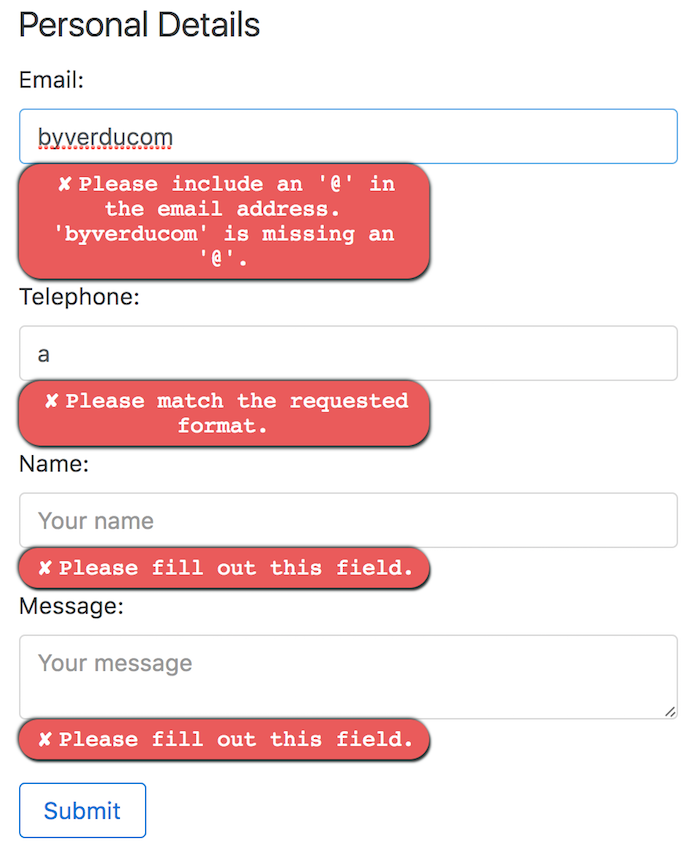
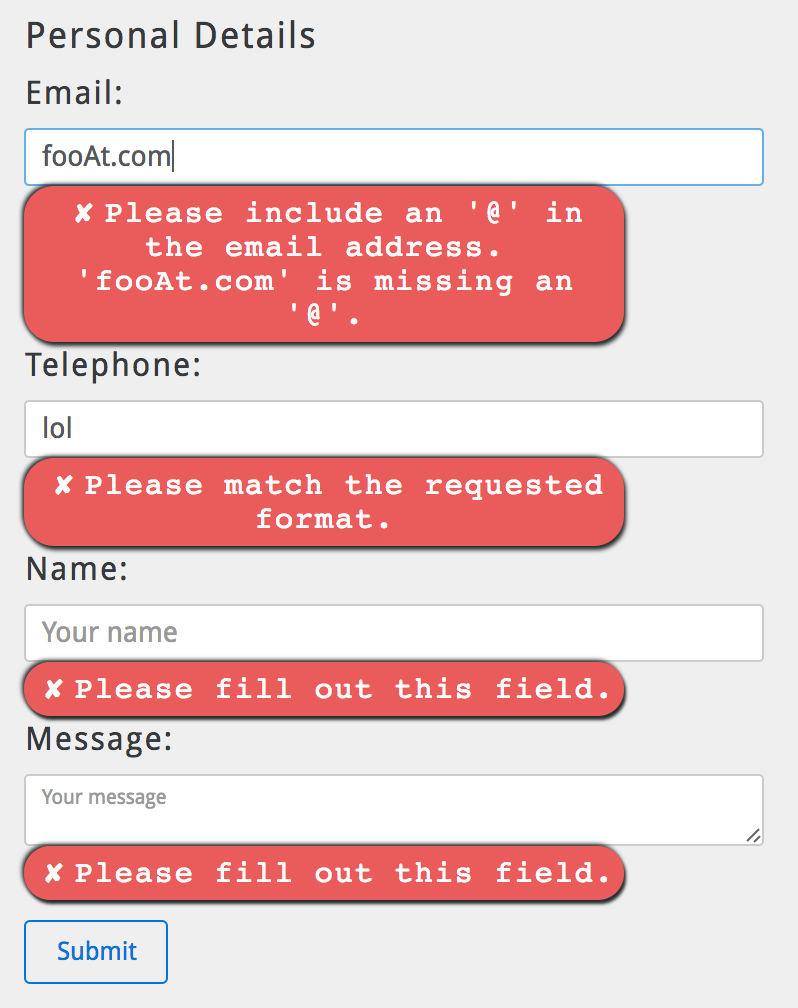
first draft for styles in demo page

diff --git a/docs/index.html b/docs/index.html
@@ -176,106 +176,145 @@
     </div>
     <div class="row">
       <div class="col-md-1"></div>
-      <div class="col-sm-12 col-md-10">
-        <form id="optionsForm">
-          <fieldset class="form-group">
-            <legend>Try settings</legend>
-            <label for="fadeOutError">fadeOutError</label>
-            <input class="form-control" type="checkbox" name="fadeOutError" id="fadeOutError">
-            <div id="timeFadeOut">
-              <label for="time">time fadeOutError</label>
-              <input class="form-control" type="text" name="time" id="time">
-            </div>
-            <label for="elementError">elementError</label>
-            <input class="form-control" type="text" name="elementError" id="elementError">
-            <label for="positionMethod">positionMethod</label>
-            <input class="form-control" type="text" name="positionMethod" id="positionMethod">
-            <label for="focusErrorOnClick">focusErrorOnClick</label>
-            <input class="form-control" type="checkbox" name="focusErrorOnClick" id="focusErrorOnClick">
-          </fieldset>
-          <input class="btn btn-outline-primary" type="submit" value="Submit">
-        </form>
+      <div class="col-sm-12 col-md-5">
+        <div class="prettyErrorDemo__settings">
+          <form id="optionsForm" class="form-group">
+            <fieldset class="form-group">
+              <legend>Settings for demo</legend>
+              <div class="form-check">
+                <label for="fadeOutError" class="form-check-label">
+                  <input class="form-check-input" type="checkbox" name="fadeOutError" id="fadeOutError">
+                  fadeOutError
+                </label>
+              </div>
+              <div class="form-group" id="timeFadeOut">
+                <label for="time">Options fadeOutError</label>
+                <input class="form-control" type="text" name="time" id="time" placeholder="String, Number or an Objet with options...">
+              </div>
+              <div class="form-group">
+                <label for="elementError">elementError</label>
+                <input class="form-control" type="text" name="elementError" id="elementError" placeholder="HTML element...">
+              </div>
+              <div class="form-group">
+                <label for="positionMethod">positionMethod</label>
+                <input class="form-control" type="text" name="positionMethod" id="positionMethod" placeholder="before or after...">
+              </div>
+              <div class="form-check">
+                <label for="focusErrorOnClick" class="form-check-label">
+                  <input class="form-check-input" type="checkbox" name="focusErrorOnClick" id="focusErrorOnClick">
+                  Disable focusErrorOnClick
+                </label>
+              </div>
+            </fieldset>
+            <input class="btn btn-outline-success btn-block" type="submit" value="Submit">
+          </form>
+        </div>
+      </div>
+    </div>
+    <div class="row">
+      <div class="col-md-1"></div>
+      <div class="col-md-10">
+        <hr>
       </div>
     </div>
 
     <div class="row">
-      <div class="col-md-1"></div>
-      <div class="col-sm-12 col-md-5">
-        <form class="prettyErrorForm">
-          <fieldset class="form-group">
-            <legend>Personal Details</legend>
+      <div class="prettyErrorDemo__settings">
+        <div class="col-md-1"></div>
+        <div class="col-sm-12 col-md-5">
+          <form class="prettyErrorForm">
+            <fieldset class="form-group">
+              <legend>Personal Details</legend>
 
-            <label for="email">Email:</label>
-            <input class="form-control" required type="email" id="email" name="email" placeholder="Your email" title="aa@aa.aa">
+              <label for="email">Email:</label>
+              <input class="form-control" required type="email" id="email" name="email" placeholder="Your email" title="aa@aa.aa">
 
-            <label>Telephone:</label>
-            <input class="form-control" required type="tel" pattern='\d+' name="telephone" placeholder="Your telephone" title="Only digits">
+              <label>Telephone:</label>
+              <input class="form-control" required type="tel" pattern='\d+' name="telephone" placeholder="Your telephone" title="Only digits">
 
-            <label for="name">Name:</label>
-            <input class="form-control" required type="text" id="name" name="name" placeholder="Your name">
+              <label for="name">Name:</label>
+              <input class="form-control" required type="text" id="name" name="name" placeholder="Your name">
 
-            <label for="message">Message:</label>
-            <textarea required class="form-control" id="message" name="message" placeholder="Your message"></textarea>
-          </fieldset>
-          <!-- /details -->
-          <button type="submit" class="btn btn-outline-primary">Submit</button>
-        </form>
+              <label for="message">Message:</label>
+              <textarea required class="form-control" id="message" name="message" placeholder="Your message"></textarea>
+            </fieldset>
+            <!-- /details -->
+            <button type="submit" class="btn-lg btn btn-outline-primary">Submit</button>
+          </form>
+        </div>
+        <div class="col-md-1"></div>
+        <div class="col-sm-12 col-md-4">
+          <form class="prettyErrorForm">
+            <fieldset>
+              <legend>Statistic Details</legend>
+
+              <!-- first value must be empty in order to get an error -->
+              <div class="form-group">
+                <label for="gender">Select Gender</label>
+                <select class="form-control" id="gender" required title="Select a Gender">
+                  <option value="">Select a option</option>
+                  <option value="male">Male</option>
+                  <option value="female">Female</option>
+                </select>
+              </div>
+
+              <div class="form-check">
+                <label class="form-check-label">
+                  <input type="checkbox" id="terms" required title="Please agree with the conditions" class="form-check-input">
+                  Terms and conditions
+                </label>
+              </div>
+
+              <!-- input radio must have the same name attribute in order to be able to choose between them and get the error -->
+              <legend>Mac or PC?</legend>
+              <div class="form-check">
+                <label class="form-check-label">
+                  <input id="mac" type="radio" name="group1" value="mac" required class="form-check-input">
+                  Mac
+                </label>
+              </div>
+              <div class="form-check">
+                <label class="form-check-label">
+                  <input id="pc" type="radio" name="group1" value="pc" required class="form-check-input">
+                  PC
+                </label>
+              </div>
+
+              <!-- Multiple required checkboxes give a problem when validates. Added extra javascript in order to use it, check jsVersion.js file -->
+              <legend>Best topping ever</legend>
+
+              <div class="form-check">
+                <label class="form-check-label">
+                  <input required id="pineapple" type="checkbox" name="topping" value="pineapple" class="form-check-input multiCheckbox">
+                  Pineapple
+                </label>
+                <label class="form-check-label">
+                  <input required id="ham" type="checkbox" name="topping" value="ham" class="form-check-input multiCheckbox">
+                  Ham
+                </label>
+                <label class="form-check-label">
+                  <input required id="olives" type="checkbox" name="olives" value="olives" class="form-check-input multiCheckbox">
+                  Olives
+                </label>
+              </div>
+            </fieldset>
+            <!-- /statistics -->
+            <button type="submit" class="btn-lg btn btn-outline-primary">Submit</button>
+          </form>
+        </div>
+        <div class="col-md-1"></div>
       </div>
-      <div class="col-md-1"></div>
-      <div class="col-sm-12 col-md-4">
-        <form class="prettyErrorForm">
-          <fieldset>
-            <legend>Statistic Details</legend>
-
-            <label for="gender">Select Gender</label>
-            <!-- first value must be empty in order to get an error -->
-            <select id="gender" required title="Select a Gender">
-                <option value="">Select a option</option>
-                <option value="male">Male</option>
-                <option value="female">Female</option>
-              </select>
-
-            <p>Mac or PC?</p>
-
-            <label for="mac">Mac:</label>
-            <!-- input radio must have the same name attribute in order to be able to choose between them and get the error -->
-            <input id="mac" type="radio" name="group1" value="mac" required class="form-control">
-
-            <label for="pc">PC:</label>
-            <input id="pc" type="radio" name="group1" value="pc" required class="form-control">
-
-
-            <label for="terms">Terms and conditions</label>
-            <input type="checkbox" id="terms" required title="Please agree with the conditions" class="form-control">
-
-            <p>Best topping ever</p>
-
-            <!-- Multiple required checkboxes give a problem when validates. Added extra javascript in order to use it, check jsVersion.js file -->
-
-            <label for="pineapple">Pineapple:</label>
-            <input required id="pineapple" type="checkbox" name="topping" value="pineapple" class="form-control multiCheckbox">
-
-            <!-- Added a class="options" for all same group of checkboxes -->
-            <label for="ham">Ham:</label>
-            <input required id="ham" type="checkbox" name="topping" value="ham" class="form-control multiCheckbox">
-
-            <label for="olives">Olives:</label>
-            <input required id="olives" type="checkbox" name="olives" value="olives" class="form-control multiCheckbox">
-
-          </fieldset>
-          <!-- /statistics -->
-          <button type="submit" class="btn btn-outline-primary">Submit</button>
-        </form>
       </div>
-      <div class="col-md-1"></div>
-    </div>
     <!-- Second form example, other input types -->
   </div>
-  <div class="container-fluid">
+  <div class="container">
     <div class="row">
-      <footer class="fixed-bottom">
-        &copy;
-      </footer>
+      <div class="col-md-1"></div>
+      <div class="fixed-bottom col-sm-12 col-md-10">
+        <footer>
+          Made with &lt;3 by <a href="https://twitter.com/byverdu" target="_blank">@Byverdu</a>
+        </footer>
+      </div>
     </div>
   </div>
   <!-- Loading Scripts -->
@@ -285,5 +324,4 @@
   <script src="prettyError.min.js"></script>
   <script src="docs.js"></script>
   </body>
-
 </html>

diff --git a/docs/docs.css b/docs/docs.css
@@ -24,6 +24,11 @@ a {
     color: #045BE8;
     text-decoration: none; }
 
+.figure {
+  width: 50%;
+  box-shadow: 0px 0px 1px;
+  padding: 5px; }
+
 .prettyErrorDemo {
   margin-top: 20px; }
   .prettyErrorDemo__intro--title {
@@ -48,12 +53,21 @@ a {
       margin: 0 5px; }
   .prettyErrorDemo__usage--option {
     margin: 2rem 0; }
+  .prettyErrorDemo__settings legend {
+    font-size: 1.8rem; }
+  .prettyErrorDemo__settings input, .prettyErrorDemo__settings textarea {
+    font-size: 1.4rem; }
 
 #timeFadeOut {
   display: none; }
 
 .hljs-tag {
   display: block; }
+
+footer {
+  margin-top: 2rem;
+  text-align: center;
+  padding: 1rem 0; }
 
 @media screen and (max-width: 57.5rem) {
   .prettyErrorDemo__intro--title {

diff --git a/dist/prettyError.min.css b/dist/prettyError.min.css
@@ -1,2 +1,2 @@
-.prettyError{background:#ea5b5b;border-radius:15px;box-shadow:1px 2px 1px #232b2b,-1px -1px 2px #232b2b;color:#fff;display:block;font:15px monospace;font-weight:500;max-width:280px;text-align:center;padding:5px;position:relative}.prettyError:before{content:"\2718";font-size:13px;margin:0 5px}
+.prettyError{background:#ea5b5b;border-radius:15px;box-shadow:1px 2px 1px #232b2b,-1px -1px 2px #232b2b;color:#fff;display:block;font:15px monospace;font-weight:500;max-width:300px;text-align:center;padding:5px;position:relative}.prettyError:before{content:"\2718";font-size:13px;margin:0 5px}
 /*# sourceMappingURL=prettyError.min.css.map */

diff --git a/docs/prettyError.min.css b/docs/prettyError.min.css
@@ -1,2 +1,2 @@
-.prettyError{background:#ea5b5b;border-radius:15px;box-shadow:1px 2px 1px #232b2b,-1px -1px 2px #232b2b;color:#fff;display:block;font:15px monospace;font-weight:500;max-width:280px;text-align:center;padding:5px;position:relative}.prettyError:before{content:"\2718";font-size:13px;margin:0 5px}
+.prettyError{background:#ea5b5b;border-radius:15px;box-shadow:1px 2px 1px #232b2b,-1px -1px 2px #232b2b;color:#fff;display:block;font:15px monospace;font-weight:500;max-width:300px;text-align:center;padding:5px;position:relative}.prettyError:before{content:"\2718";font-size:13px;margin:0 5px}
 /*# sourceMappingURL=prettyError.min.css.map */

diff --git a/src/docs.scss b/src/docs.scss
@@ -30,6 +30,12 @@ a {
   }
 }
 
+.figure {
+    width: 50%;
+    box-shadow: 0px 0px 1px;
+    padding: 5px;
+}
+
 .prettyErrorDemo {
   margin-top: 20px;
   &__intro {
@@ -69,6 +75,15 @@ a {
       margin: 2rem 0;
     }
   }
+
+  &__settings {
+    legend {
+      font-size: 1.8rem;
+    }
+    input, textarea {
+      font-size: 1.4rem;
+    }
+  }
 }
 
 #timeFadeOut {
@@ -77,6 +92,12 @@ a {
 
 .hljs-tag {
   display: block;
+}
+
+footer {
+  margin-top: 2rem;
+  text-align: center;
+  padding: 1rem 0;
 }
 
 @media screen and (max-width: 57.5rem) {

diff --git a/src/prettyError.scss b/src/prettyError.scss
@@ -8,7 +8,7 @@ $errorColor: #EA5B5B;
   display: block;
   font: 15px monospace;
   font-weight: 500;
-  max-width: 280px;
+  max-width: 300px;
   text-align: center;
   padding: 5px;
   position: relative;

diff --git a/dist/prettyError.css b/dist/prettyError.css
@@ -6,7 +6,7 @@
   display: block;
   font: 15px monospace;
   font-weight: 500;
-  max-width: 280px;
+  max-width: 300px;
   text-align: center;
   padding: 5px;
   position: relative; }
